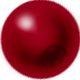
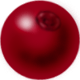
character more frames

diff --git a/drawngame.py b/drawngame.py
@@ -61,18 +61,10 @@ class World(pygame.sprite.Sprite):
 class Player(pygame.sprite.Sprite):
     def __init__(self, player_image):
         super().__init__()
-        self.index=0
+        self.index = 0
         self.images = []
-        self.images.append(pygame.image.load('puolukka1.png'))
-        self.images.append(pygame.image.load('puolukka2.png'))
-        self.images.append(pygame.image.load('puolukka3.png'))
-        self.images.append(pygame.image.load('puolukka4.png'))
-        self.images.append(pygame.image.load('puolukka5.png'))
-        self.images.append(pygame.image.load('puolukka6.png'))
-        self.images.append(pygame.image.load('puolukka7.png'))
-        self.images.append(pygame.image.load('puolukka8.png'))
-        '''self.image = pygame.transform.scale2x(
-            pygame.image.load(player_image).convert_alpha())'''
+        for i in range(0, 72):
+            self.images.append(pygame.image.load('puolukka'+str(i+1)+'.png'))
         self.image = self.images[self.index].convert_alpha()
         self.mask = pygame.mask.from_surface(self.image)
         self.rect = self.image.get_rect()
@@ -88,22 +80,23 @@ class Player(pygame.sprite.Sprite):
 
         if pressed_keys[K_a]:
             self.acc.x = -acceleration
-            self.index-=1
-            if self.index<=0:
-                self.index=len(self.images)-1
-            if (pygame.sprite.spritecollide(self, col_group, False, collided=pygame.sprite.collide_mask)):
+            self.index -= 1
+            if self.index <= 0:
+                self.index = len(self.images)-1
+            if pygame.sprite.spritecollide(self, col_group, False, collided=pygame.sprite.collide_mask):
                 self.vel.y -= 1
+                # if self.rect.top
         if pressed_keys[K_d]:
             self.acc.x = acceleration
-            self.index+=1
-            if self.index>=len(self.images):
-                self.index=0
-            if (pygame.sprite.spritecollide(self, col_group, False, collided=pygame.sprite.collide_mask)):
+            self.index += 1
+            if self.index >= len(self.images):
+                self.index = 0
+            if pygame.sprite.spritecollide(self, col_group, False, collided=pygame.sprite.collide_mask):
                 self.vel.y -= 1
         if self.acc.y < 0:
-            if (pygame.sprite.spritecollide(self.overlap(), col_group, False, collided=pygame.sprite.collide_mask)) and (pygame.sprite.spritecollide(self, col_group, False, collided=pygame.sprite.collide_mask)):
+            if self.rect.top < pygame.sprite.spritecollide(self, col_group, False, collided=pygame.sprite.collide_mask):
                 self.vel.y -= -1
-        
+
         self.image = self.images[self.index]
 
         self.acc.x += self.vel.x * friction
